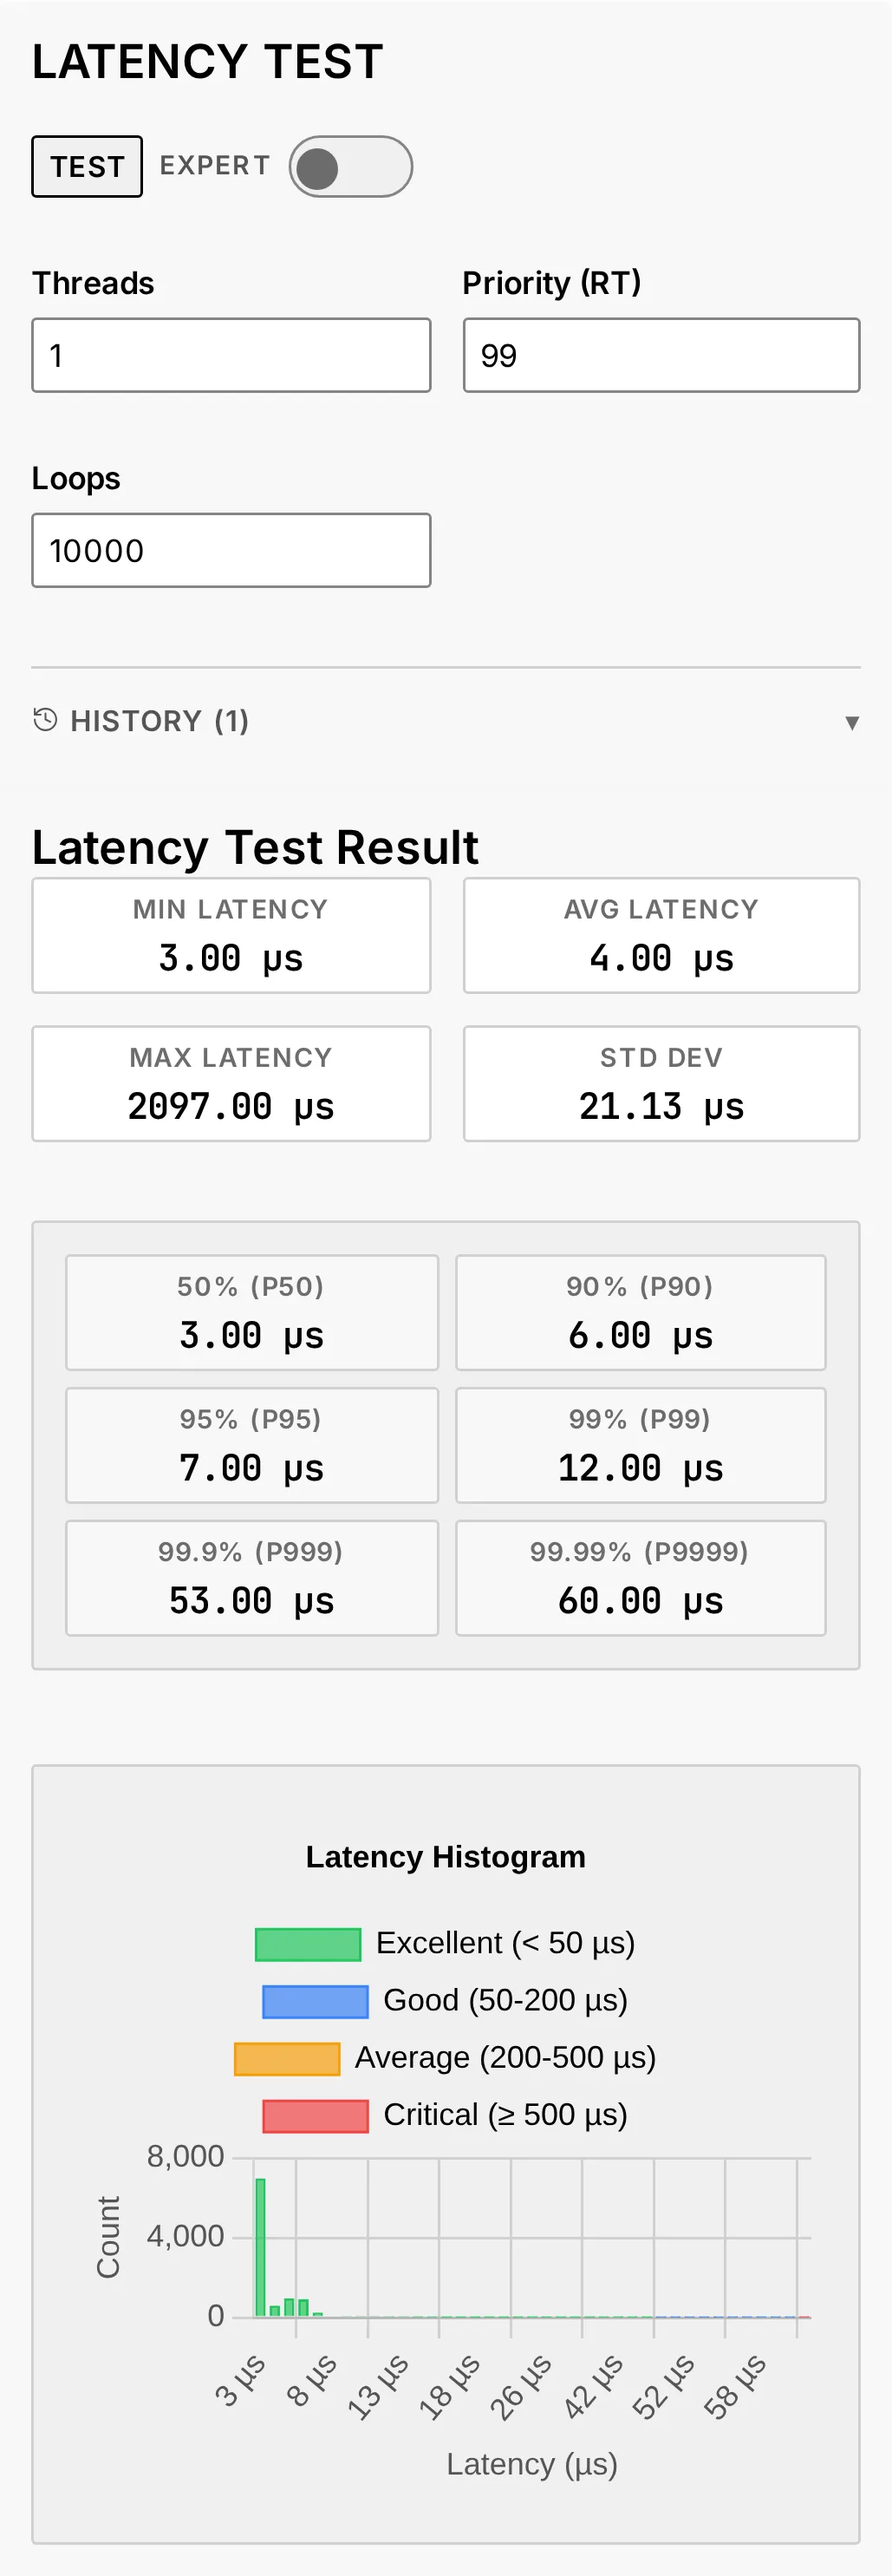
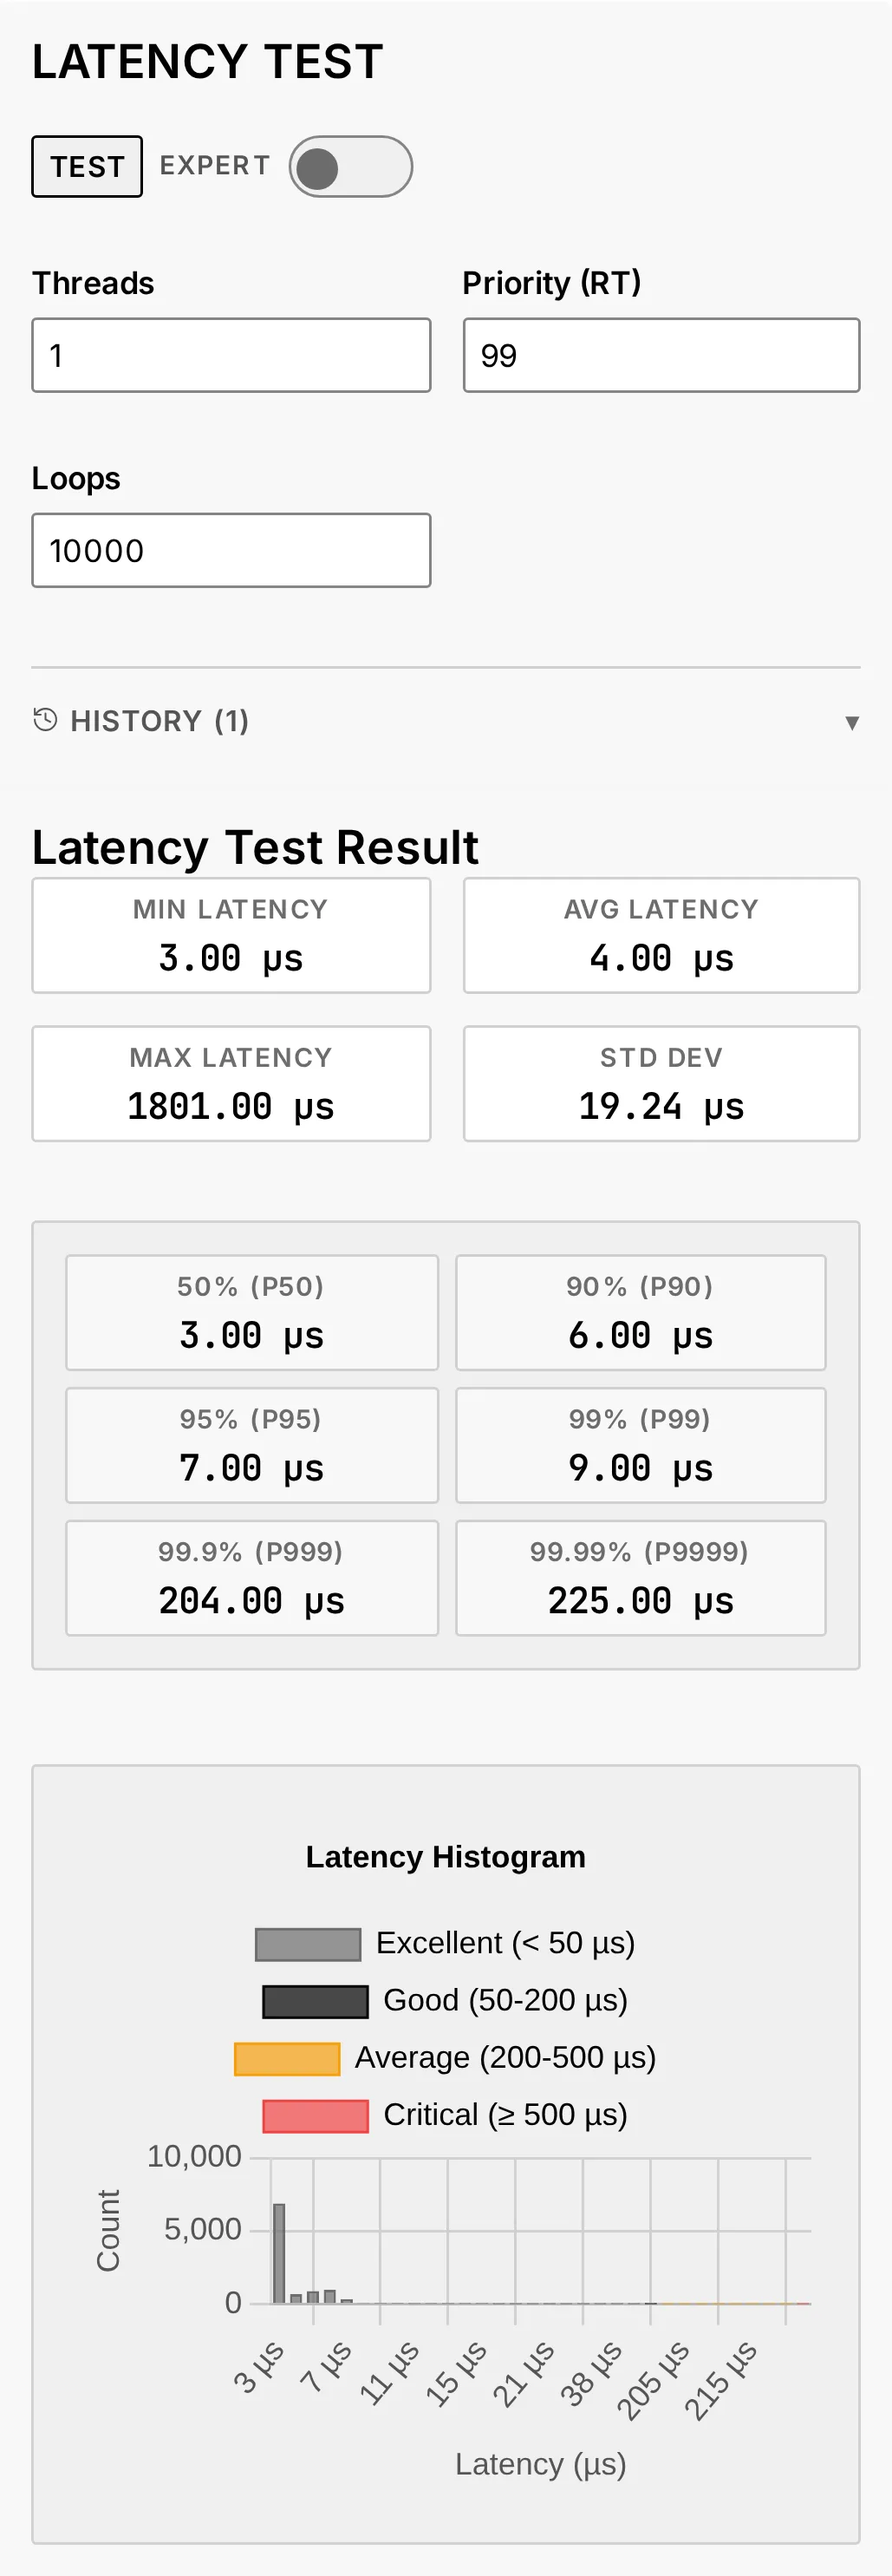
docs: describe the performance tests' fixes in the manual
Give the latency histogram's bands, the port the iperf3 server field
takes and the jitter drawn second by second; retake the figures of the
network and latency tests; update the changelog and the release notes.

diff --git a/docs/manual/07-administration.html b/docs/manual/07-administration.html
@@ -509,7 +509,8 @@ on, such as <code>2,3</code>; left empty, any of them — and two switches best 
 Lock</strong> and <strong>Quiet Mode</strong>.</li>
 </ul>
 <p>In the result, <strong>Max</strong> is the figure that matters: the worst delay seen, in
-microseconds. The histogram shows how often each delay occurred.</p>
+microseconds. The histogram shows how often each delay occurred, in four bands: under
+50 µs, 50 to 200, 200 to 500, and 500 and over — the last two in orange and red.</p>
 <img loading="lazy" src="images/ios-latency-test.webp" alt="The latency test after a run: its settings, the minimum, average and maximum delay, the percentiles and the histogram" width="360">
 <h3 id="network-test">Network test</h3>
 <p>Checks that your network carries audio without hiccups — worth running when streaming,
@@ -521,10 +522,12 @@ varies (<em>jitter</em>) and any packet lost.</li>
 <li><strong>IPERF3 UDP (Audio Streaming)</strong> and <strong>IPERF3 TCP (Throughput)</strong> — a test server
 sends a steady stream to the box for the chosen <strong>Duration</strong>, at the chosen
 <strong>Bandwidth</strong>. The server runs on another machine of your network: install iperf3
-there, start it with <code>iperf3 -s</code>, and enter its address in <strong>Server</strong>. Set
+there, start it with <code>iperf3 -s</code>, and enter its address in <strong>Server</strong> — followed by
+its port, as in <code>192.168.1.20:5202</code>, if it does not listen on iperf3's own, 5201. Set
 <strong>Bandwidth</strong> to what your music needs — DSD512 and PCM 768 kHz take close to
-50 Mbit/s (<code>50M</code>). UDP reports jitter and loss at that rate; TCP reports whether the
-rate holds, and how many packets had to be sent again.</li>
+50 Mbit/s (<code>50M</code>). UDP reports jitter and loss at that rate, and draws the jitter
+second by second, one bar per second; TCP reports whether the rate holds, and how
+many packets had to be sent again.</li>
 <li><strong>Internal Server Service</strong> — <strong>START SERVICE</strong> runs a test server on the box itself,
 so that another machine can test its way to the box.</li>
 </ul>

diff --git a/CHANGELOG.md b/CHANGELOG.md
@@ -20,6 +20,9 @@ and this landing) are documented here. Format based on
 ### Fixed
 - **[core][ui][manual][site] The radio search keeps the stations that really stream lossless, and its box says so: *Lossless only*.** Its *Hi-Res only* kept a station listed as FLAC or WAV, or announced at 256 kbps or more: an MP3 at 320 kbps passed, while the FLAC stations the Radio Browser catalogue lists as OGG — the wrapper they are sent in, which also carries Vorbis and Opus — passed only on the bitrate they announce. Ticked, *Lossless only* keeps the stations listed as FLAC or WAV, and reads the first 4 KB of each station listed as OGG, UNKNOWN or with no codec, to keep those that send FLAC; on the lab's box a search for "flac" took under ten seconds the first time, and was answered at once the next. A station read that way shows *FLAC* and its resolution — *24bit / 48kHz* — in the search, My Live Radio and Favorites, and while it plays the player and the signal path show FLAC and its bit depth where they showed *OGG*, as lossy. The box reads four streams at a time at most, follows a station's redirections checking each address, never reads an address on the local network for a station taken from the catalogue — a station added by hand may be on it —, and tries a station that failed again a day later only. The API's `lossless_only` replaces `hi_res_only`, kept as a deprecated alias; a station gains `verified_codec`, `verified_bits` and `verified_rate_hz`. The manual, the editions page and the landing's radio card say so.
 - **[ui][core][manual] A Raspberry Pi short of power shows its processor *Slowed down*, not at a speed it is not running at.** While a Pi's supply falls short, its processor runs slower than the speed Linux gives — 600 MHz on a Pi 4 that Linux still showed at 1.8 GHz, measured on the lab's Pi —, and the Performance tab showed Linux's figure. While the THROTTLED badge shows on a Pi, the core's frequency and *Current Freq* above the cards now read *Slowed down*, and the support report says *slowed down (undervoltage)* in place of a figure — its `audio_live` gains `cpu_slowed`. An Intel processor's figure is the speed it measured, and stays, even while it is slowed for heat.
+- **[ui][manual] The network test's verdict reads in every theme.** EXCELLENT, GOOD, FAIR or CRITICAL was a solid block of colour with the page's ground as its words: under the 4.5:1 floor in 11 of the 24 combinations of theme, mode and grade, down to 1.94:1, and in Minimal GOOD was a black block that looked like a button. It is drawn as the app's other state badges are — a tint, and the word in its colour —, at 4.5:1 or more everywhere. The manual's figures of the network and latency tests are retaken.
+- **[ui][manual] The performance tests' charts follow the theme.** A UDP network test's jitter was a smoothed line in a blue no theme sets — it read a colour no theme declares —, which drew values between the seconds it never measured: it is one bar per second now, in the theme's network colour, as on the System tab. In Minimal, the latency histogram draws its bars under 50 µs in grey and up to 200 µs in black, and keeps colour for the delays from 200 µs. Both charts are drawn again when the theme or the light/dark mode changes: they kept the colours of the mode they were drawn in. The manual gives the histogram's bands and says the jitter is drawn second by second.
+- **[core][ui][manual] The iperf3 network test takes a server's port.** The field asks for an address and its port, and iperf3 read the whole as a host name — "unable to connect to server … Name or service not known", measured with iperf3 3.18 —: with a port, the test stopped at once. The port is passed to iperf3 on its own, 5201 when none is given; an IPv6 address takes brackets, `[fe80::1]:5201`; and an entry that names no server — empty, or with a port that is not a number or outside 1–65535 — is refused before the test starts (422), and no longer kept among the field's suggestions. The UPnP media server search, which split an address the same way, writes an IPv6 host in brackets in the addresses it probes.
 - **[site] The social preview and the README's image show the landing as it is today.** The card networks and messengers show for audiogravity.app, and the image heading the site's README, still showed the public beta: its ribbon, an older capture of the app, the previous carousel controls — the README's even the opening line the landing dropped. Both are taken anew from the page by `gen-og-image.js`: the release candidate's ribbon, the HQPlayer screen the carousel opens on, with its annotations.
 - **[site] Halloween — the spider beside the phone hangs from its thread in Safari.** Safari drew the spider and not its thread, a pseudo-element sized with container units; each thread is now drawn in its spider's own box, its length in pixels.
 - **[lic] A licence key no box holds is no longer written in full in the server's log.** Created by the admin or by a PayPal payment, deactivated or restored, such a key is a bearer secret — the first box to send it keeps it; those lines now write only its first group (`AG-XXXX…`), and so does uvicorn's access log, which wrote it in the address of the admin's routes on an order.

diff --git a/docs/manual/07-administration.md b/docs/manual/07-administration.md
@@ -480,7 +480,8 @@ program risks when the box is busy. Set the test, click **TEST**, and read the r
   Lock** and **Quiet Mode**.
 
 In the result, **Max** is the figure that matters: the worst delay seen, in
-microseconds. The histogram shows how often each delay occurred.
+microseconds. The histogram shows how often each delay occurred, in four bands: under
+50 µs, 50 to 200, 200 to 500, and 500 and over — the last two in orange and red.
 
 <img src="images/ios-latency-test.webp" alt="The latency test after a run: its settings, the minimum, average and maximum delay, the percentiles and the histogram" width="360">
 
@@ -495,10 +496,12 @@ Roon, AirPlay or a NAS stalls. Choose a mode, set it, and click **TEST**.
 - **IPERF3 UDP (Audio Streaming)** and **IPERF3 TCP (Throughput)** — a test server
   sends a steady stream to the box for the chosen **Duration**, at the chosen
   **Bandwidth**. The server runs on another machine of your network: install iperf3
-  there, start it with `iperf3 -s`, and enter its address in **Server**. Set
+  there, start it with `iperf3 -s`, and enter its address in **Server** — followed by
+  its port, as in `192.168.1.20:5202`, if it does not listen on iperf3's own, 5201. Set
   **Bandwidth** to what your music needs — DSD512 and PCM 768 kHz take close to
-  50 Mbit/s (`50M`). UDP reports jitter and loss at that rate; TCP reports whether the
-  rate holds, and how many packets had to be sent again.
+  50 Mbit/s (`50M`). UDP reports jitter and loss at that rate, and draws the jitter
+  second by second, one bar per second; TCP reports whether the rate holds, and how
+  many packets had to be sent again.
 - **Internal Server Service** — **START SERVICE** runs a test server on the box itself,
   so that another machine can test its way to the box.
 

diff --git a/RELEASE_NOTES.md b/RELEASE_NOTES.md
@@ -15,6 +15,15 @@ showed at 1.8 GHz. While the THROTTLED badge shows on a Pi, the Performance tab 
 gives that figure: each core and *Current Freq* read *Slowed down*, and so does the support
 report. On an Intel processor the figure is a measured speed, and stays.
 
+**Test results that read in every theme.** The network test's verdict is drawn like the app's
+other state badges, and now reads in every theme. A UDP test's jitter is one bar per second, in
+the theme's network colour. In Minimal, the latency histogram keeps colour for the delays from
+200 µs. And both charts follow a switch between light and dark mode.
+
+**The iperf3 test takes a port.** A server can be entered as `address:port`, as the field asks:
+with a port, the test stopped at once until now. An entry that names no server is refused
+before the test starts.
+
 ### Radio
 
 **Lossless only.** The radio search's *Hi-Res only* box becomes *Lossless only*, and means it.
